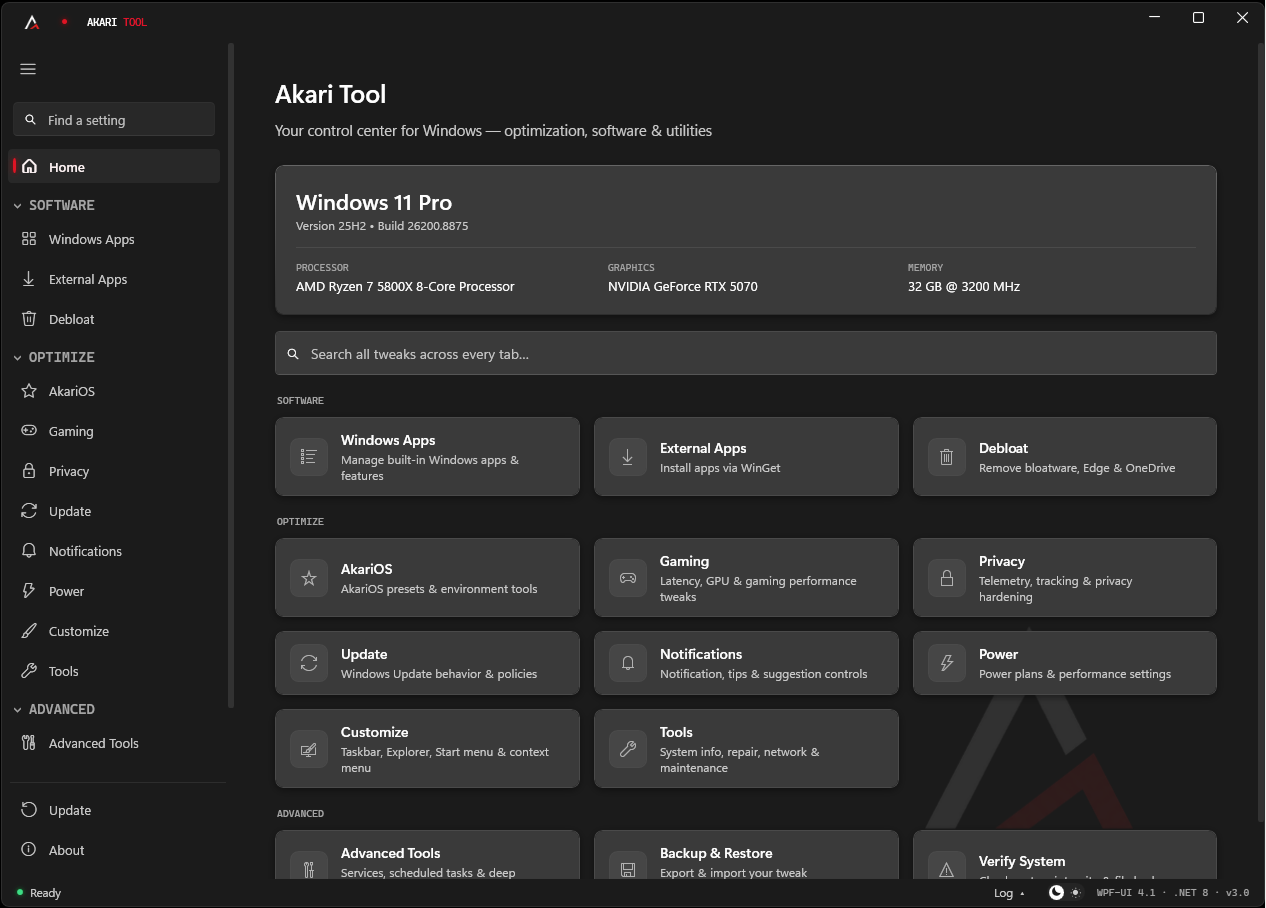
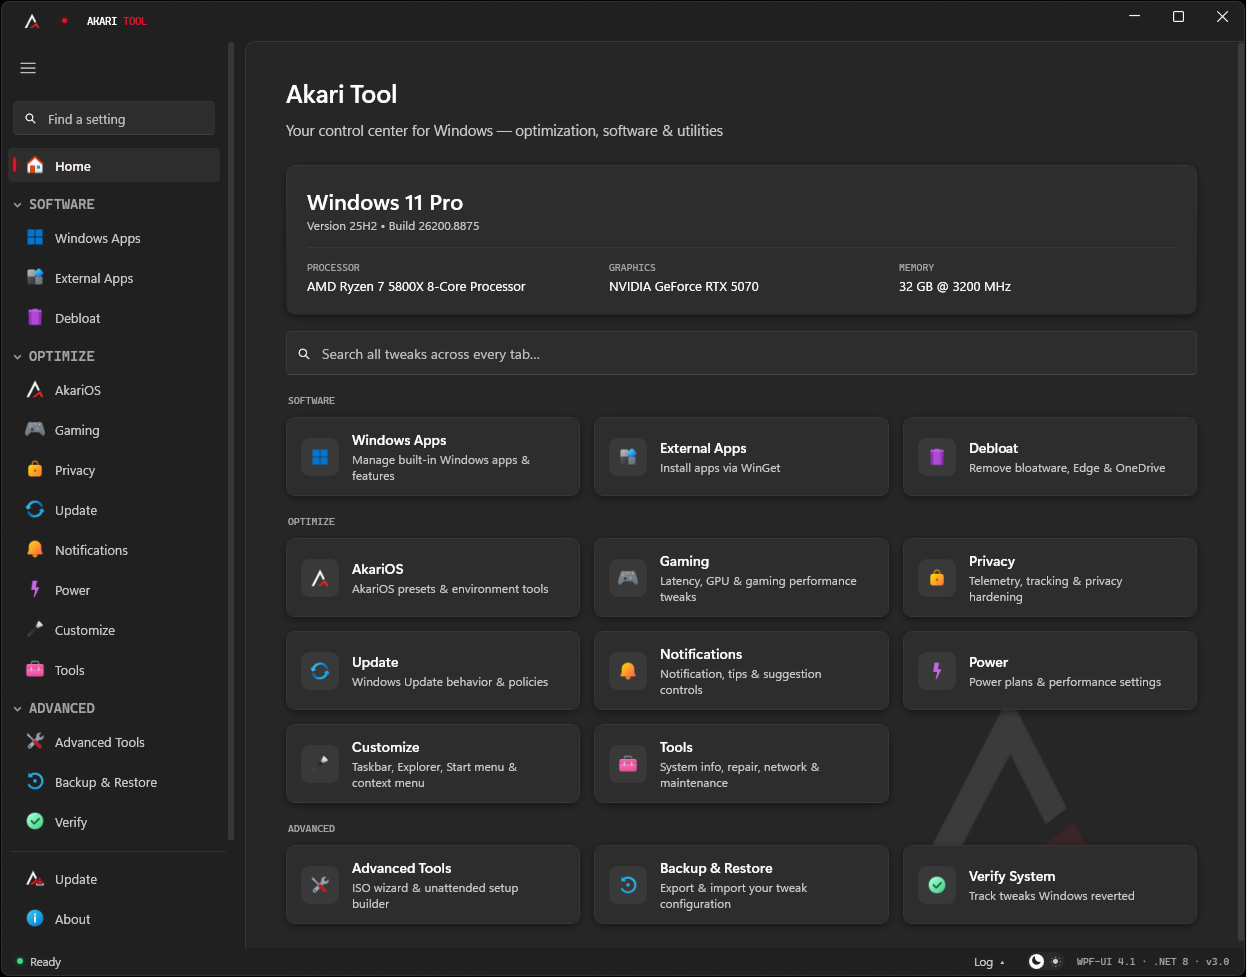
up

diff --git a/obj/Debug/net8.0-windows/win-x64/AkariTool.AssemblyInfo.cs b/obj/Debug/net8.0-windows/win-x64/AkariTool.AssemblyInfo.cs
@@ -13,7 +13,7 @@ using System.Reflection;
 [assembly: System.Reflection.AssemblyCompanyAttribute("AkariTool")]
 [assembly: System.Reflection.AssemblyConfigurationAttribute("Debug")]
 [assembly: System.Reflection.AssemblyFileVersionAttribute("1.1.4.0")]
-[assembly: System.Reflection.AssemblyInformationalVersionAttribute("1.1.4+300c3099e5259f2a246f9a874884d5895110b455")]
+[assembly: System.Reflection.AssemblyInformationalVersionAttribute("1.1.4+ef406ebacf3def19dc4fa8210a30351d44cddc2e")]
 [assembly: System.Reflection.AssemblyProductAttribute("AkariTool")]
 [assembly: System.Reflection.AssemblyTitleAttribute("AkariTool")]
 [assembly: System.Reflection.AssemblyVersionAttribute("1.1.4.0")]
